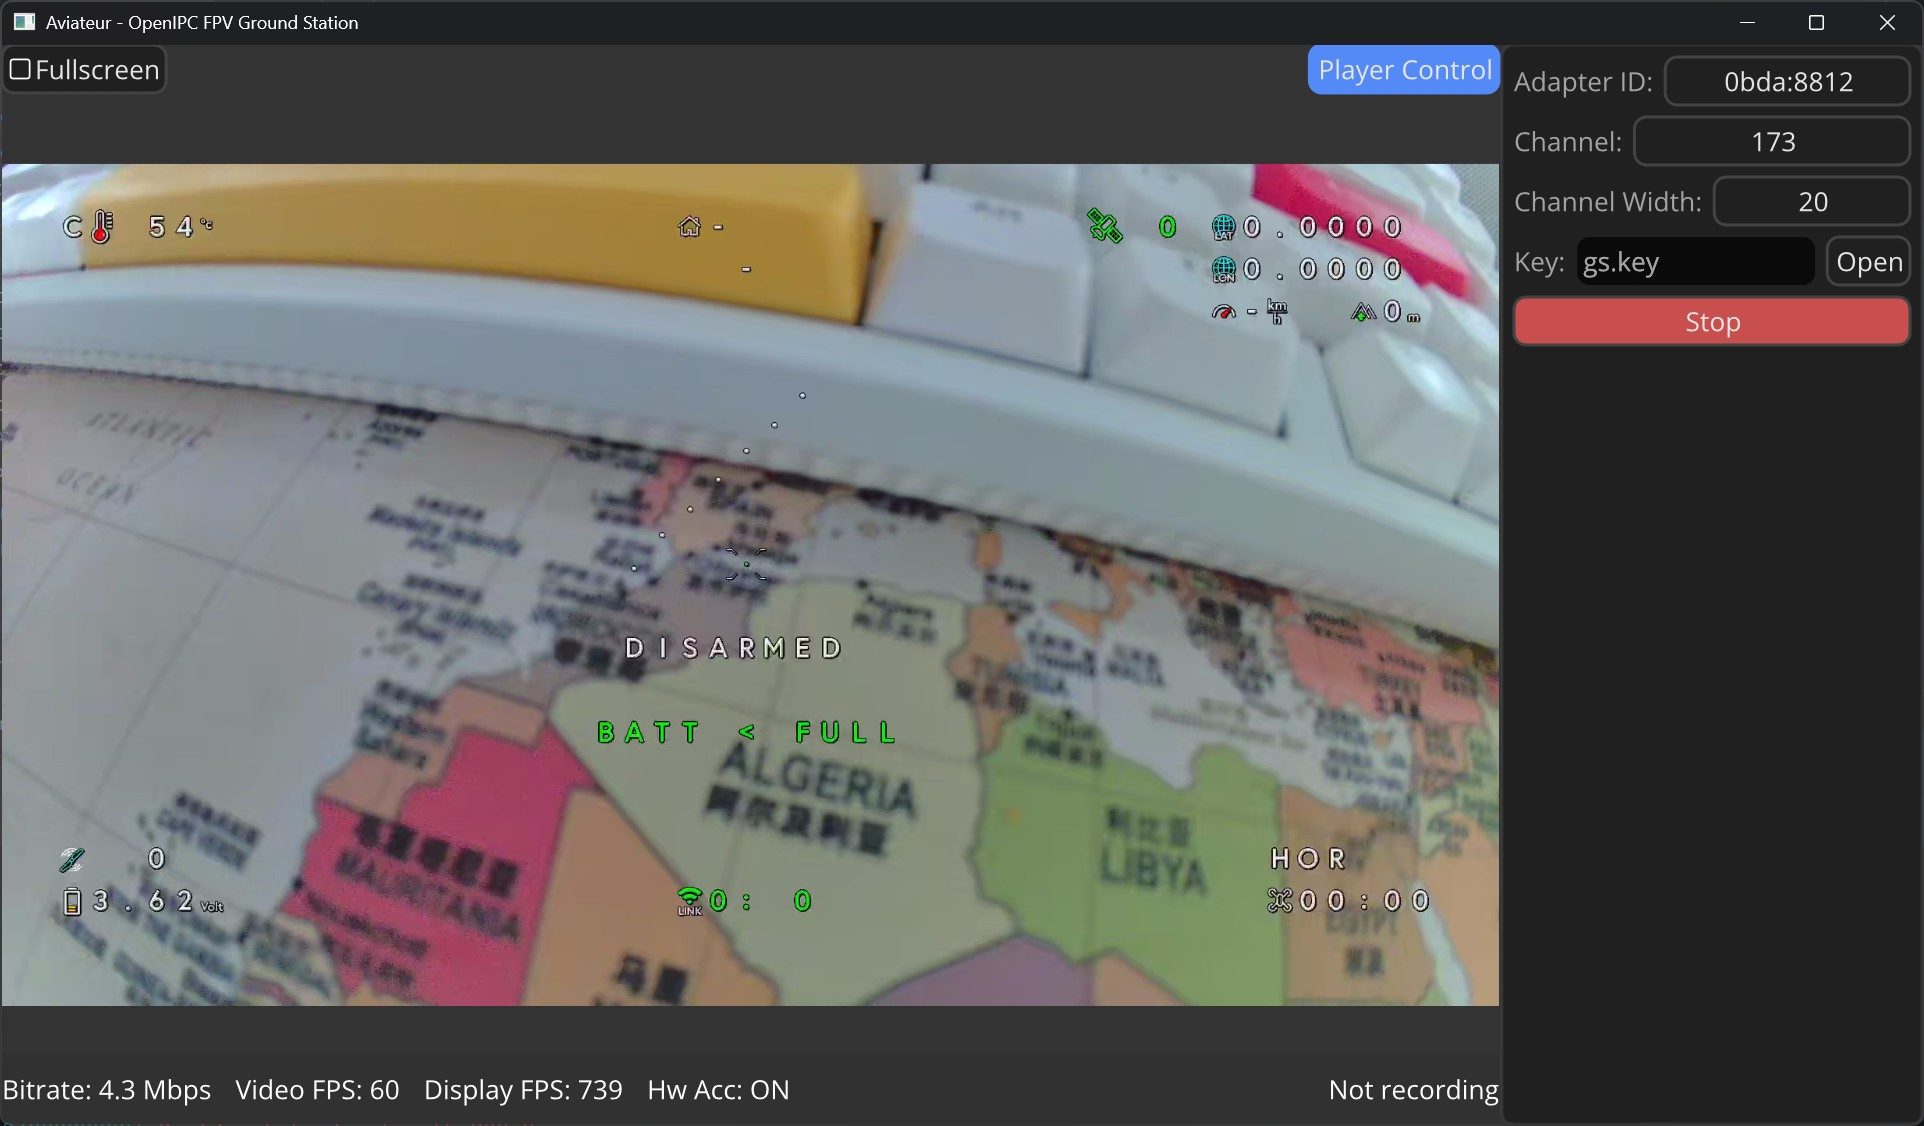
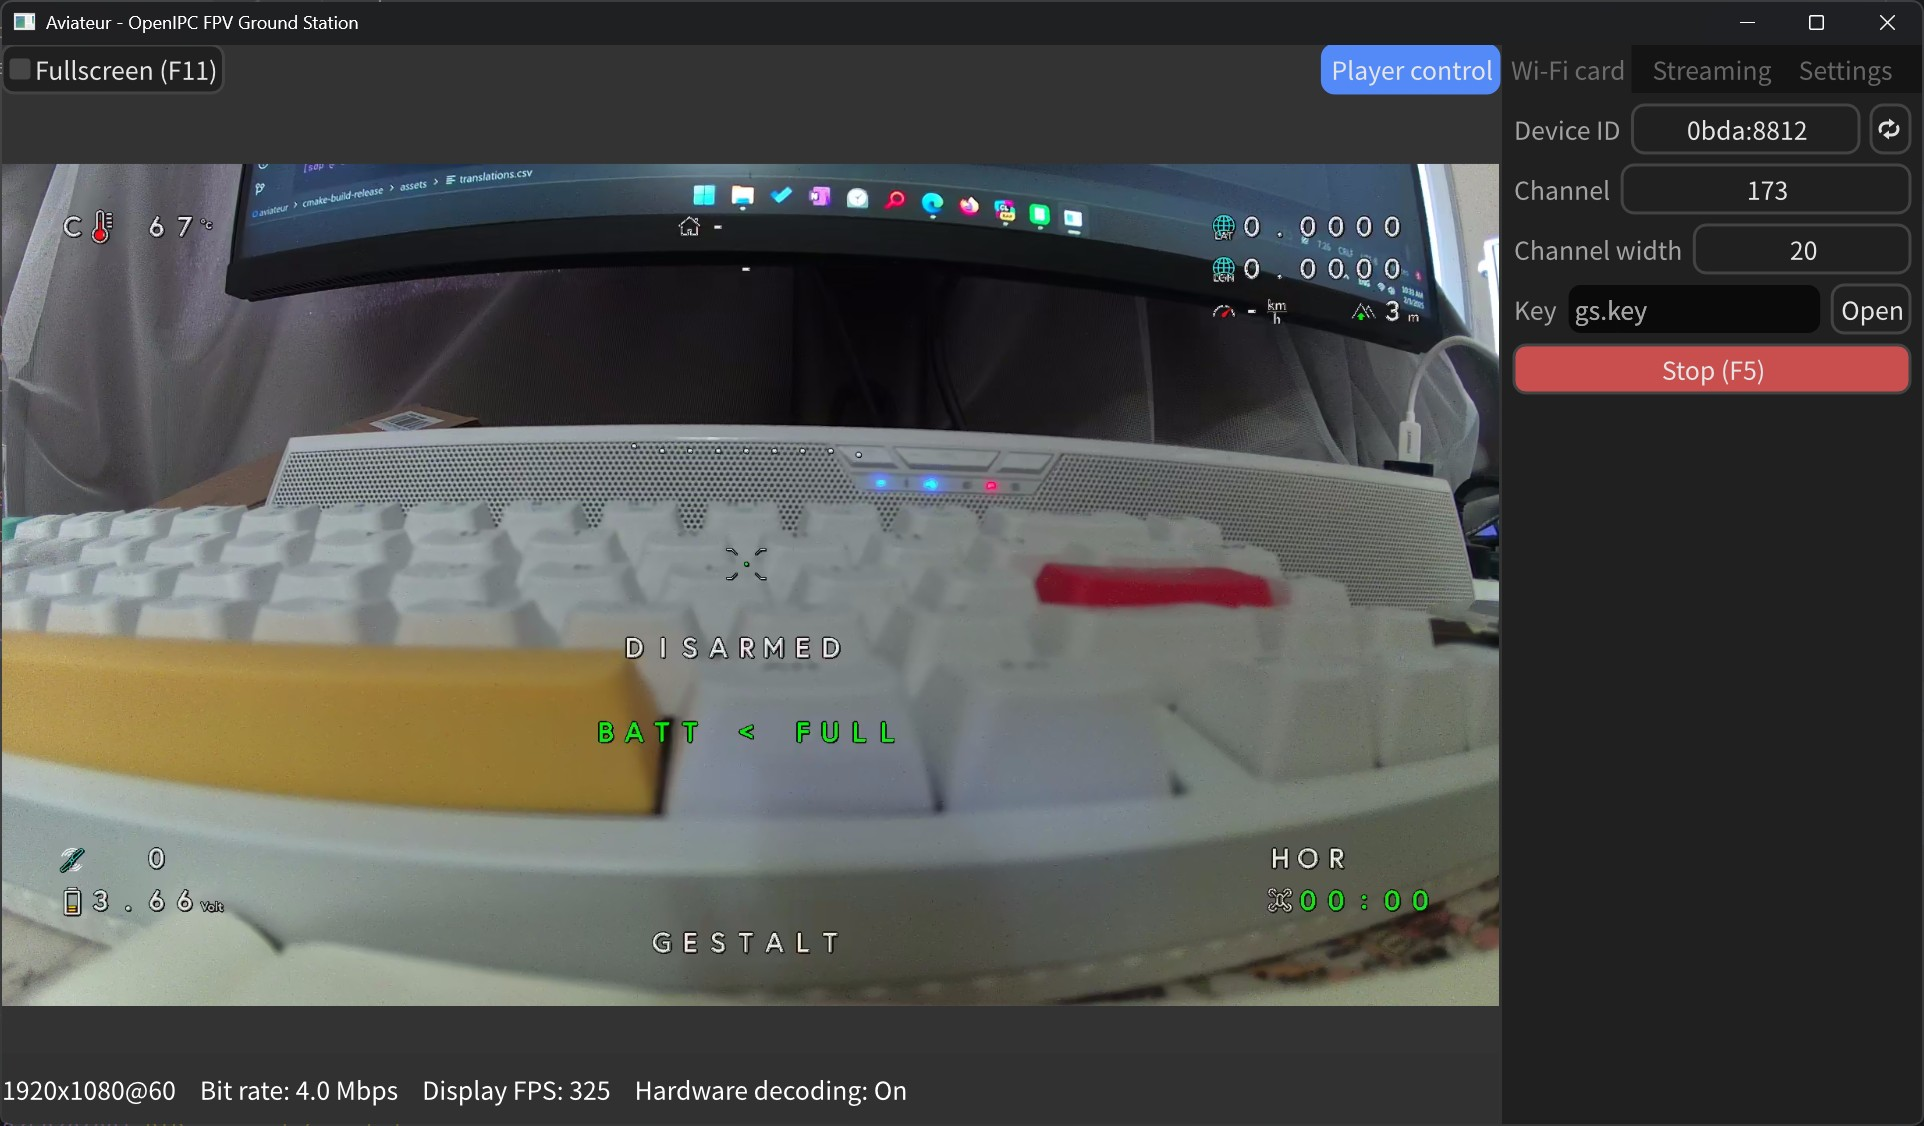
Improve translations

diff --git a/src/gui/control_panel.cpp b/src/gui/control_panel.cpp
@@ -1,4 +1,5 @@
 #include "control_panel.h"
+
 #include "settings_tab.h"
 
 void ControlPanel::update_dongle_list() {
@@ -76,7 +77,7 @@ void ControlPanel::custom_ready() {
         auto margin_container = std::make_shared<Flint::MarginContainer>();
         margin_container->set_margin_all(8);
         tab_container_->add_child(margin_container);
-        tab_container_->set_tab_title(0, FTR("Network card"));
+        tab_container_->set_tab_title(0, FTR("Wi-Fi card"));
 
         auto vbox_container = std::make_shared<Flint::VBoxContainer>();
         vbox_container->set_separation(8);
@@ -246,7 +247,7 @@ void ControlPanel::custom_ready() {
         auto margin_container = std::make_shared<Flint::MarginContainer>();
         margin_container->set_margin_all(8);
         tab_container_->add_child(margin_container);
-        tab_container_->set_tab_title(1, "URL");
+        tab_container_->set_tab_title(1, FTR("Streaming"));
 
         auto vbox_container = std::make_shared<Flint::VBoxContainer>();
         vbox_container->set_separation(8);
@@ -261,7 +262,7 @@ void ControlPanel::custom_ready() {
 
         url_edit_ = std::make_shared<Flint::TextEdit>();
         url_edit_->set_editable(true);
-        url_edit_->set_text("udp://239.0.0.1:1234");
+        url_edit_->set_text(GuiInterface::Instance().ini_[CONFIG_STREAMING][CONFIG_STREAMING_URL]);
         url_edit_->container_sizing.expand_h = true;
         url_edit_->container_sizing.flag_h = Flint::ContainerSizingFlag::Fill;
         hbox_container->add_child(url_edit_);
@@ -276,8 +277,8 @@ void ControlPanel::custom_ready() {
                 bool start = play_url_button_->get_text() == FTR("Start") + " (F5)";
 
                 if (start) {
-                    // Hw decoding always crashes when playing URL streams.
                     GuiInterface::Instance().EmitRtpStream(url_edit_->get_text());
+                    GuiInterface::Instance().ini_[CONFIG_STREAMING][CONFIG_STREAMING_URL] = url_edit_->get_text();
                 } else {
                     GuiInterface::Instance().EmitUrlStreamShouldStop();
                 }

diff --git a/src/gui_interface.h b/src/gui_interface.h
@@ -20,6 +20,9 @@
 #define ADAPTER_CHANNEL_KEY "key"
 #define ADAPTER_CHANNEL_CODEC "codec"
 
+#define CONFIG_STREAMING "streaming"
+#define CONFIG_STREAMING_URL "url"
+
 #define CONFIG_GUI "gui"
 #define CONFIG_GUI_LANG "language"
 
@@ -66,6 +69,8 @@ public:
             ini_[CONFIG_ADAPTER][ADAPTER_CHANNEL_WIDTH_MODE] = "0";
             ini_[CONFIG_ADAPTER][ADAPTER_CHANNEL_KEY] = "gs.key";
             ini_[CONFIG_ADAPTER][ADAPTER_CHANNEL_CODEC] = "AUTO";
+
+            ini_[CONFIG_STREAMING][CONFIG_STREAMING_URL] = "udp://239.0.0.1:1234";
 
             ini_[CONFIG_GUI][CONFIG_GUI_LANG] = "en";
         } else {

diff --git a/src/gui/player_rect.cpp b/src/gui/player_rect.cpp
@@ -222,8 +222,8 @@ void PlayerRect::custom_ready() {
 void PlayerRect::custom_update(double dt) {
     player_->update(dt);
 
-    hw_status_label_->set_text(FTR("Hw decoding") + ": " +
-                               std::string(player_->isHardwareAccelerated() ? "ON" : "OFF"));
+    hw_status_label_->set_text(FTR("Hardware decoding") + ": " +
+                               std::string(player_->isHardwareAccelerated() ? FTR("On") : FTR("Off")));
 
     display_fps_label_->set_text(FTR("Display FPS") + ": " +
                                  std::to_string(Flint::Engine::get_singleton()->get_fps_int()));
